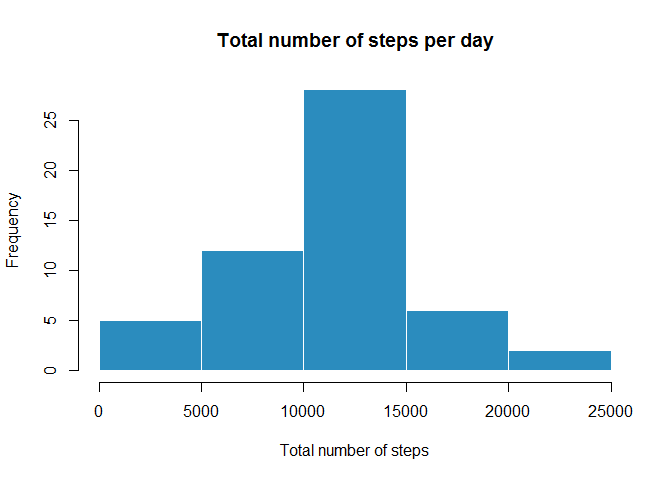
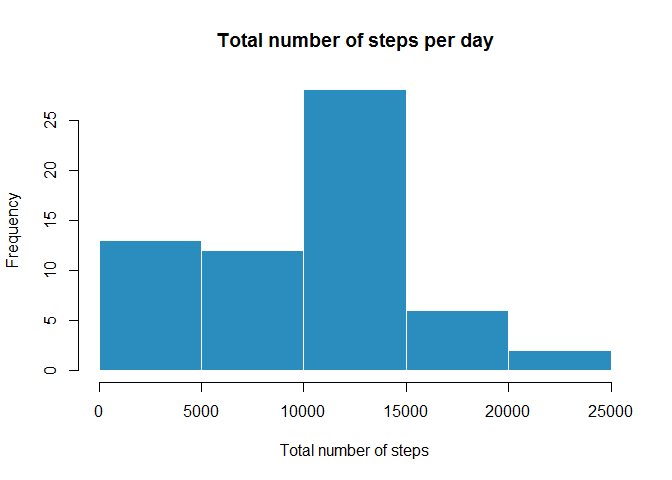
Updates files due to an error

Changed region(s): [[0.125, 0.5, 0.3125, 0.6875]]

diff --git a/PA1_template.html b/PA1_template.html
@@ -145,13 +145,13 @@ activityData$date &lt;- as.Date(activityData$date)</code></pre>
 <h3>What is mean total number of steps taken per day?</h3>
 <p>For now, we will ignore the missing values in this dataset.</p>
 <p>We first calculate the total number of steps per day and contruct a histogram with the result.</p>
-<pre class="r"><code>totalStepsperDay &lt;- activityData %&gt;% group_by(date) %&gt;% summarize(totalSteps = sum(steps))
+<pre class="r"><code>totalStepsperDay &lt;- activityData %&gt;% group_by(date) %&gt;% summarize(totalSteps = sum(steps, na.rm = TRUE))
 hist(totalStepsperDay$totalSteps, xlab = &quot;Total number of steps&quot;, col = &quot;#2b8cbe&quot;, border = &quot;white&quot;, main = &quot;Total number of steps per day&quot;)</code></pre>
[2 lines of base64/hex data omitted]
 <p>We can also compute the mean and the median of the total number of steps taken each day.</p>
 <pre class="r"><code>meanSteps &lt;- format(mean(totalStepsperDay$totalSteps, na.rm = TRUE), digits = 7)
 medianSteps &lt;- format(median(totalStepsperDay$totalSteps, na.rm = TRUE), digits = 7)</code></pre>
-<p>The mean is <strong>10766.19</strong> and the median <strong>10765</strong>. They are almost equal.</p>
+<p>The mean is <strong>9354.23</strong> and the median <strong>10395</strong>. They are almost equal.</p>
 </div>
 <div id="what-is-the-average-daily-activity-pattern" class="section level3">
 <h3>What is the average daily activity pattern?</h3>

diff --git a/PA1_template.md b/PA1_template.md
@@ -41,7 +41,7 @@ For now, we will ignore the missing values in this dataset.
 We first calculate the total number of steps per day and contruct a
 histogram with the result.
 
-    totalStepsperDay <- activityData %>% group_by(date) %>% summarize(totalSteps = sum(steps))
+    totalStepsperDay <- activityData %>% group_by(date) %>% summarize(totalSteps = sum(steps, na.rm = TRUE))
     hist(totalStepsperDay$totalSteps, xlab = "Total number of steps", col = "#2b8cbe", border = "white", main = "Total number of steps per day")
 
 ![](PA1_template_files/figure-markdown_strict/unnamed-chunk-1-1.png)
@@ -52,8 +52,7 @@ taken each day.
     meanSteps <- format(mean(totalStepsperDay$totalSteps, na.rm = TRUE), digits = 7)
     medianSteps <- format(median(totalStepsperDay$totalSteps, na.rm = TRUE), digits = 7)
 
-The mean is **10766.19** and the median **10765**. They are almost
-equal.
+The mean is **9354.23** and the median **10395**. They are almost equal.
 
 ### What is the average daily activity pattern?
 
